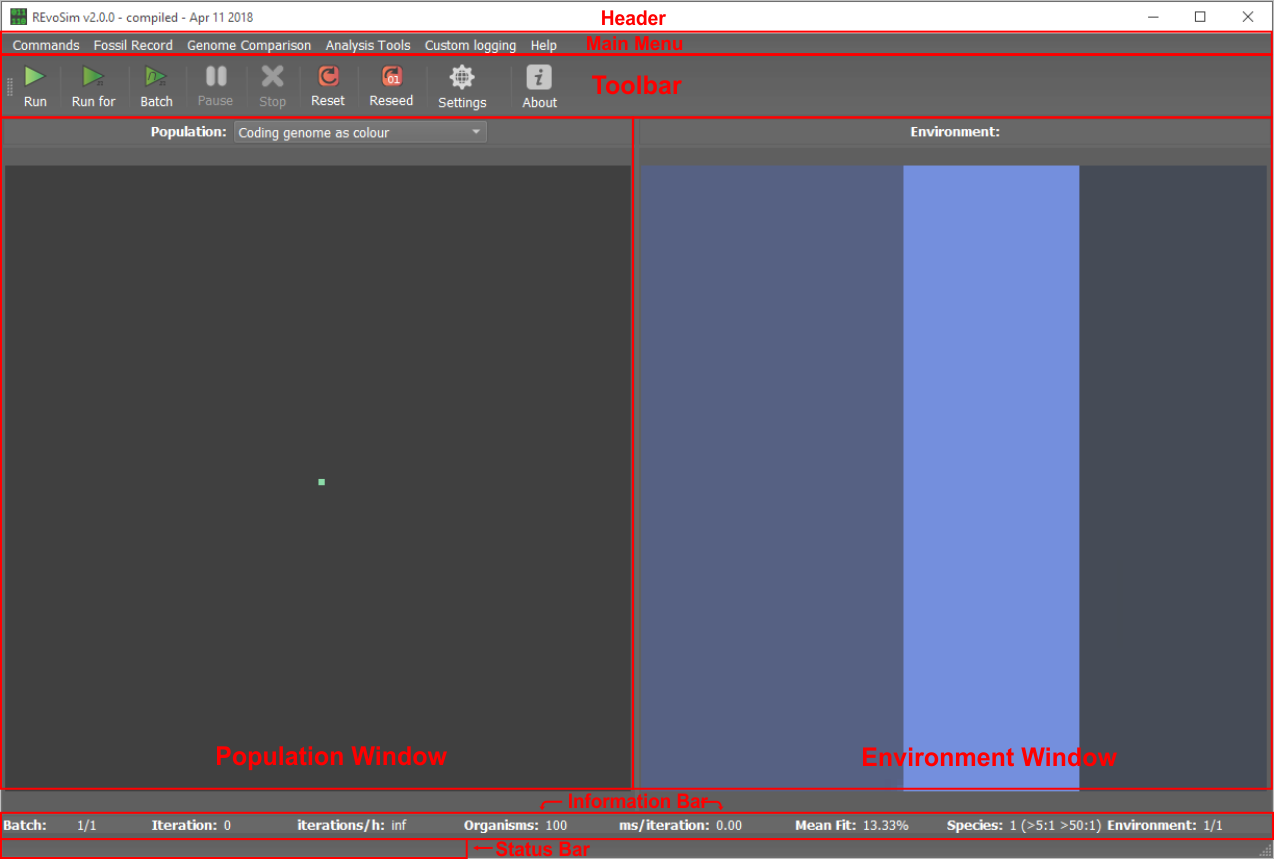
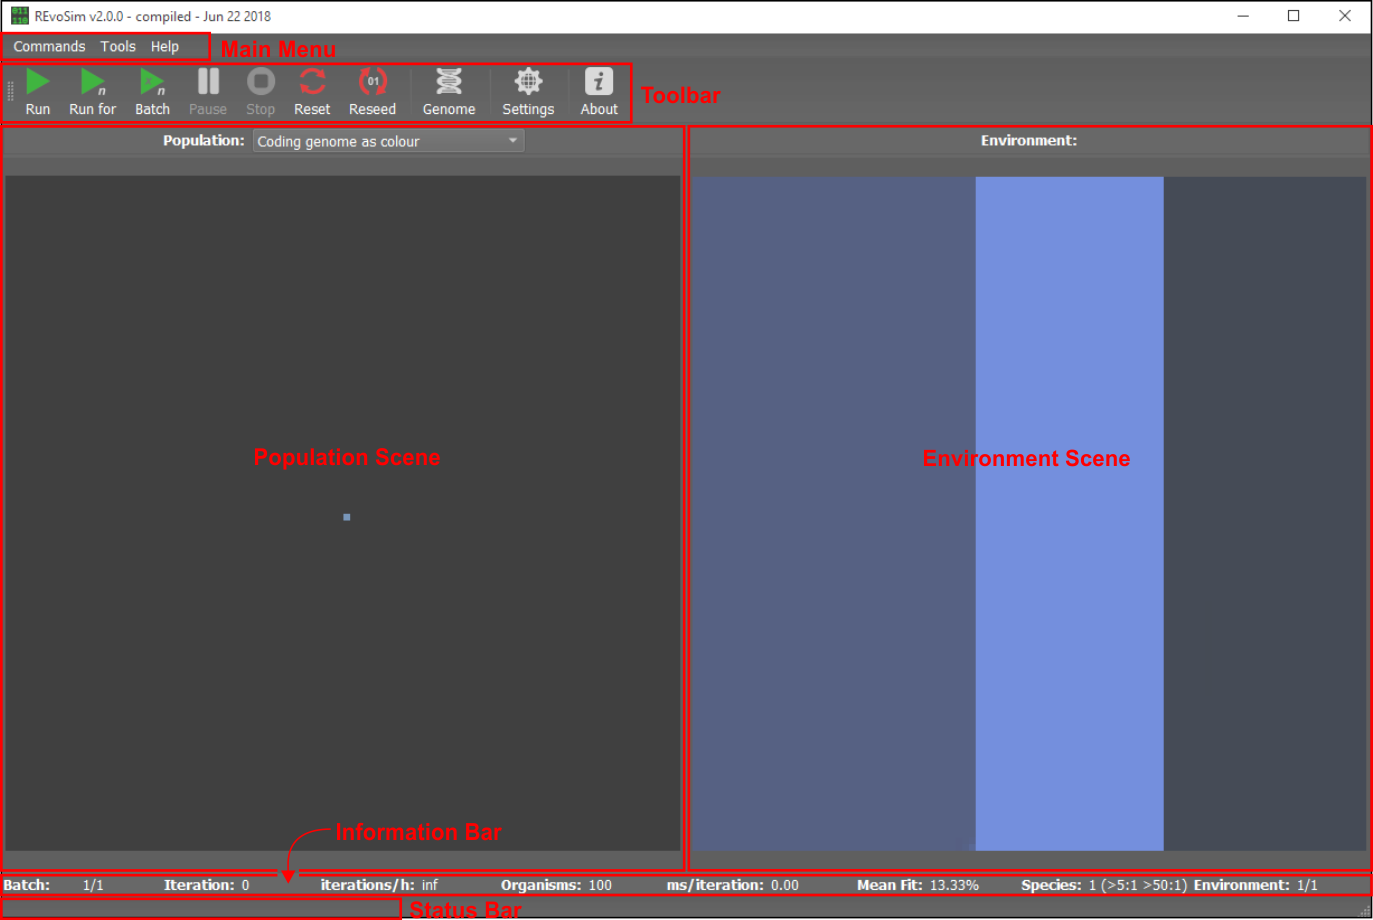
Image changes to the docs

diff --git a/docs/maintoolbar.rst b/docs/maintoolbar.rst
@@ -6,15 +6,15 @@ The main toolbar consists of the following button:
 .. figure:: _static/mainToolbar.png
     :align: center
 	
-    Figure 1 Main toolbar (no simulation running).
+    Figure 3.1.2.1 - Main toolbar (no simulation running).
 	
 .. figure:: _static/mainToolbarInRun.png
     :align: center
 	
-    Figure 2 Main toolbar (with simulation running).
+    Figure 3.1.2.2 - Main toolbar (with simulation running).
 	
 	
-The first four (“Run”, “Run for”, “Batch”, "Pause" and “Stop”) control the initiation and cessation of simulation runs. These commands can also be accessed from the “Command” menu. Further detail on these actions can be found in 3.3.1 and 3.3.2.
+The first four (“Run”, “Run for”, “Batch”, "Pause" and “Stop”) control the initiation and cessation of simulation runs. These commands can also be accessed from the _'"Commands"': mainmenu menu. Further detail on these actions can be found in 3.3.1 and 3.3.2.
 
 The sixth and seventh buttons (“Reset” and “Reseed”) allow the resetting of the simulation and reseeding of the initial genomes in the population window prior to running a simulation. Further detail on these actions can be found in 3.3.3 and 3.3.4.
 

diff --git a/docs/index.rst b/docs/index.rst
@@ -10,6 +10,19 @@ The [R]apid [Evo]lutionary [Sim]ulator program.
 
 REvoSim uses a simplified first-principles evolutionary model to facilitate high computational efficiency, enabling the simulation of large populations incorporating space, over geological time, using modest computer hardware. Speeds attainable depend on the computer hardware in use, the size of the populations simulated, and details of the experimental setup (most especially on whether species tracking and fitness recalculation are activated). With a typical 2018 desktop computer, speeds of between 500,000 and 1,000,000 iterations (years) per hour can be achieved for populations of around 250,000.
 
+.. figure:: _static/palaeoware_logo_square.png
+    :align: center
+
+t:@palaeoware
+
+w:https://github.com/palaeoware.
+
+Relevant references
+-------------------
+
+Garwood, R.J., Spencer A.R.T. and Sutton, M.D., 2018. REvoSim: Organism-level simulation of macro- and microevolution
+
+
 Table of Contents
 =================
 .. toctree::

diff --git a/docs/mainmenu.rst b/docs/mainmenu.rst
@@ -1,2 +1,32 @@
 Main Menu
 =========
+
+The Main Menu, located at the top of the program window, allows access to all program actions, functions, and settings. The menu is currently sub-divided into three sections:
+
+1. Commands
+2. Tools
+3. Help
+
+Commands
+--------
+
+.. figure:: _static/commandMenu.png
+    :align: center
+
+The Commands menu holds the majority of available actions and program functions related to running of one or more siumulation.
+
+Tools
+-----
+
+.. figure:: _static/toolsMenu.png
+    :align: center
+
+The Tools menu allows access to the built-in dockable widgets (called 'Docks') which alter or extend the core program functions. This includes the main simulation settings dock.
+
+Help
+----
+
+.. figure:: _static/helpMenu.png
+    :align: center
+
+The Help menu contains links to useful program information, the program code repository, and documentation.

diff --git a/docs/settingssiumlation.rst b/docs/settingssiumlation.rst
@@ -1,2 +1,2 @@
-Settings up the Simulation
+Setting up the Simulation
 ==========================
